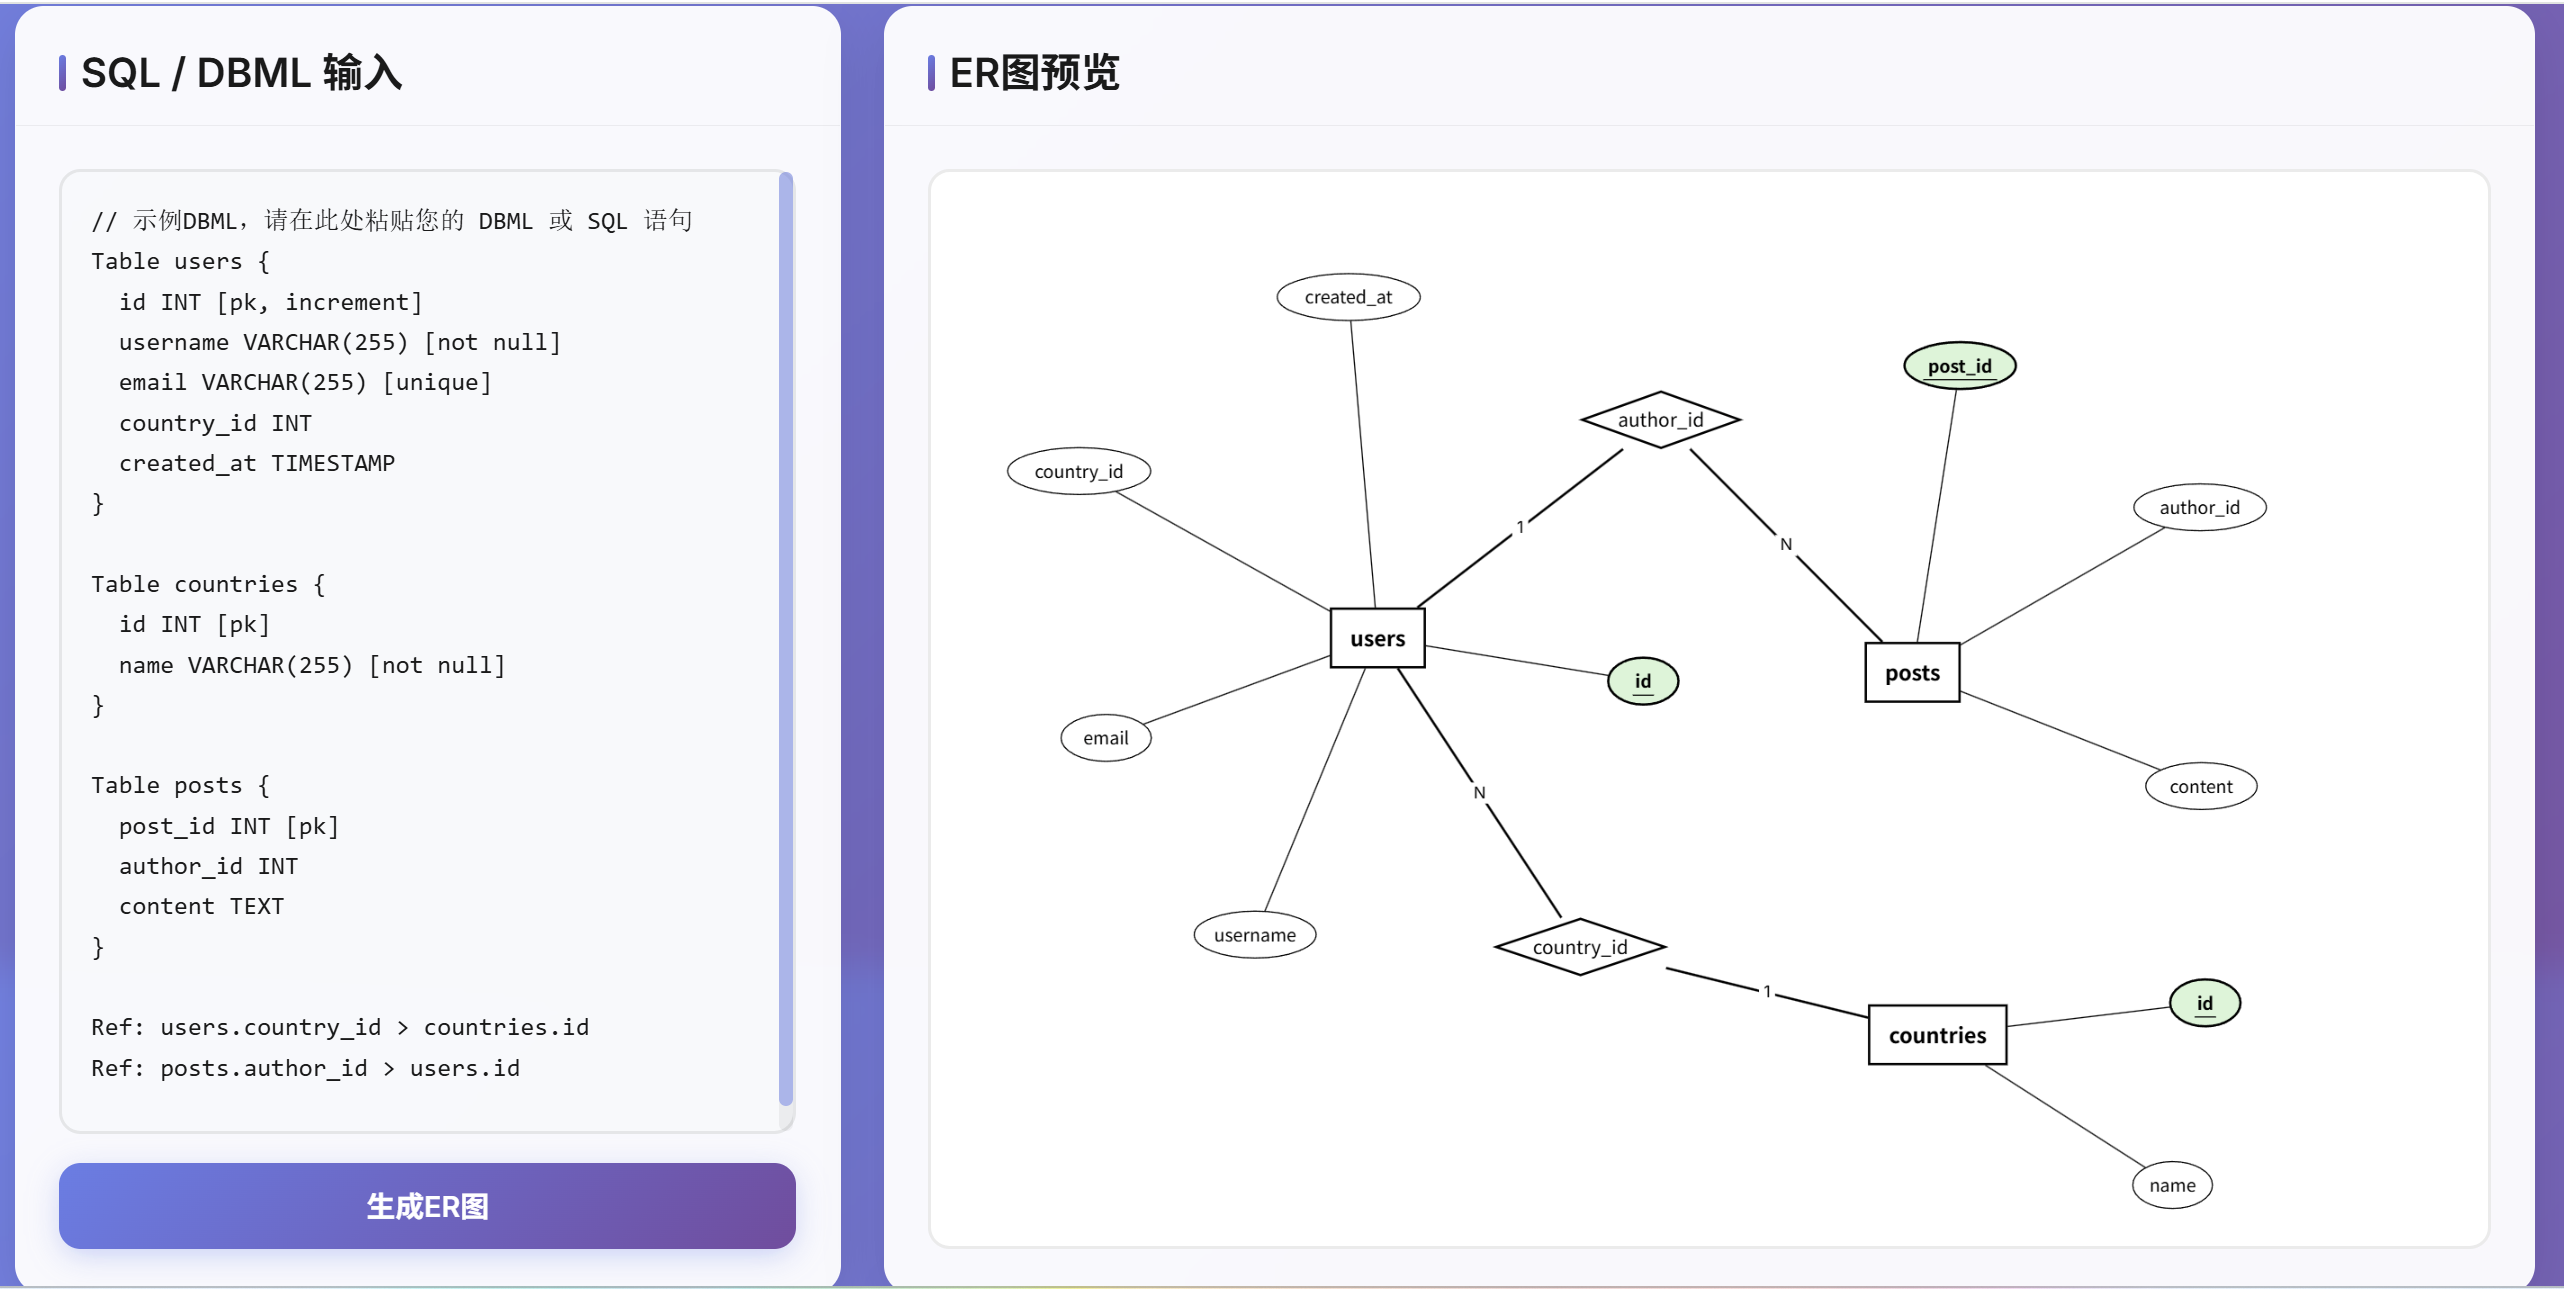
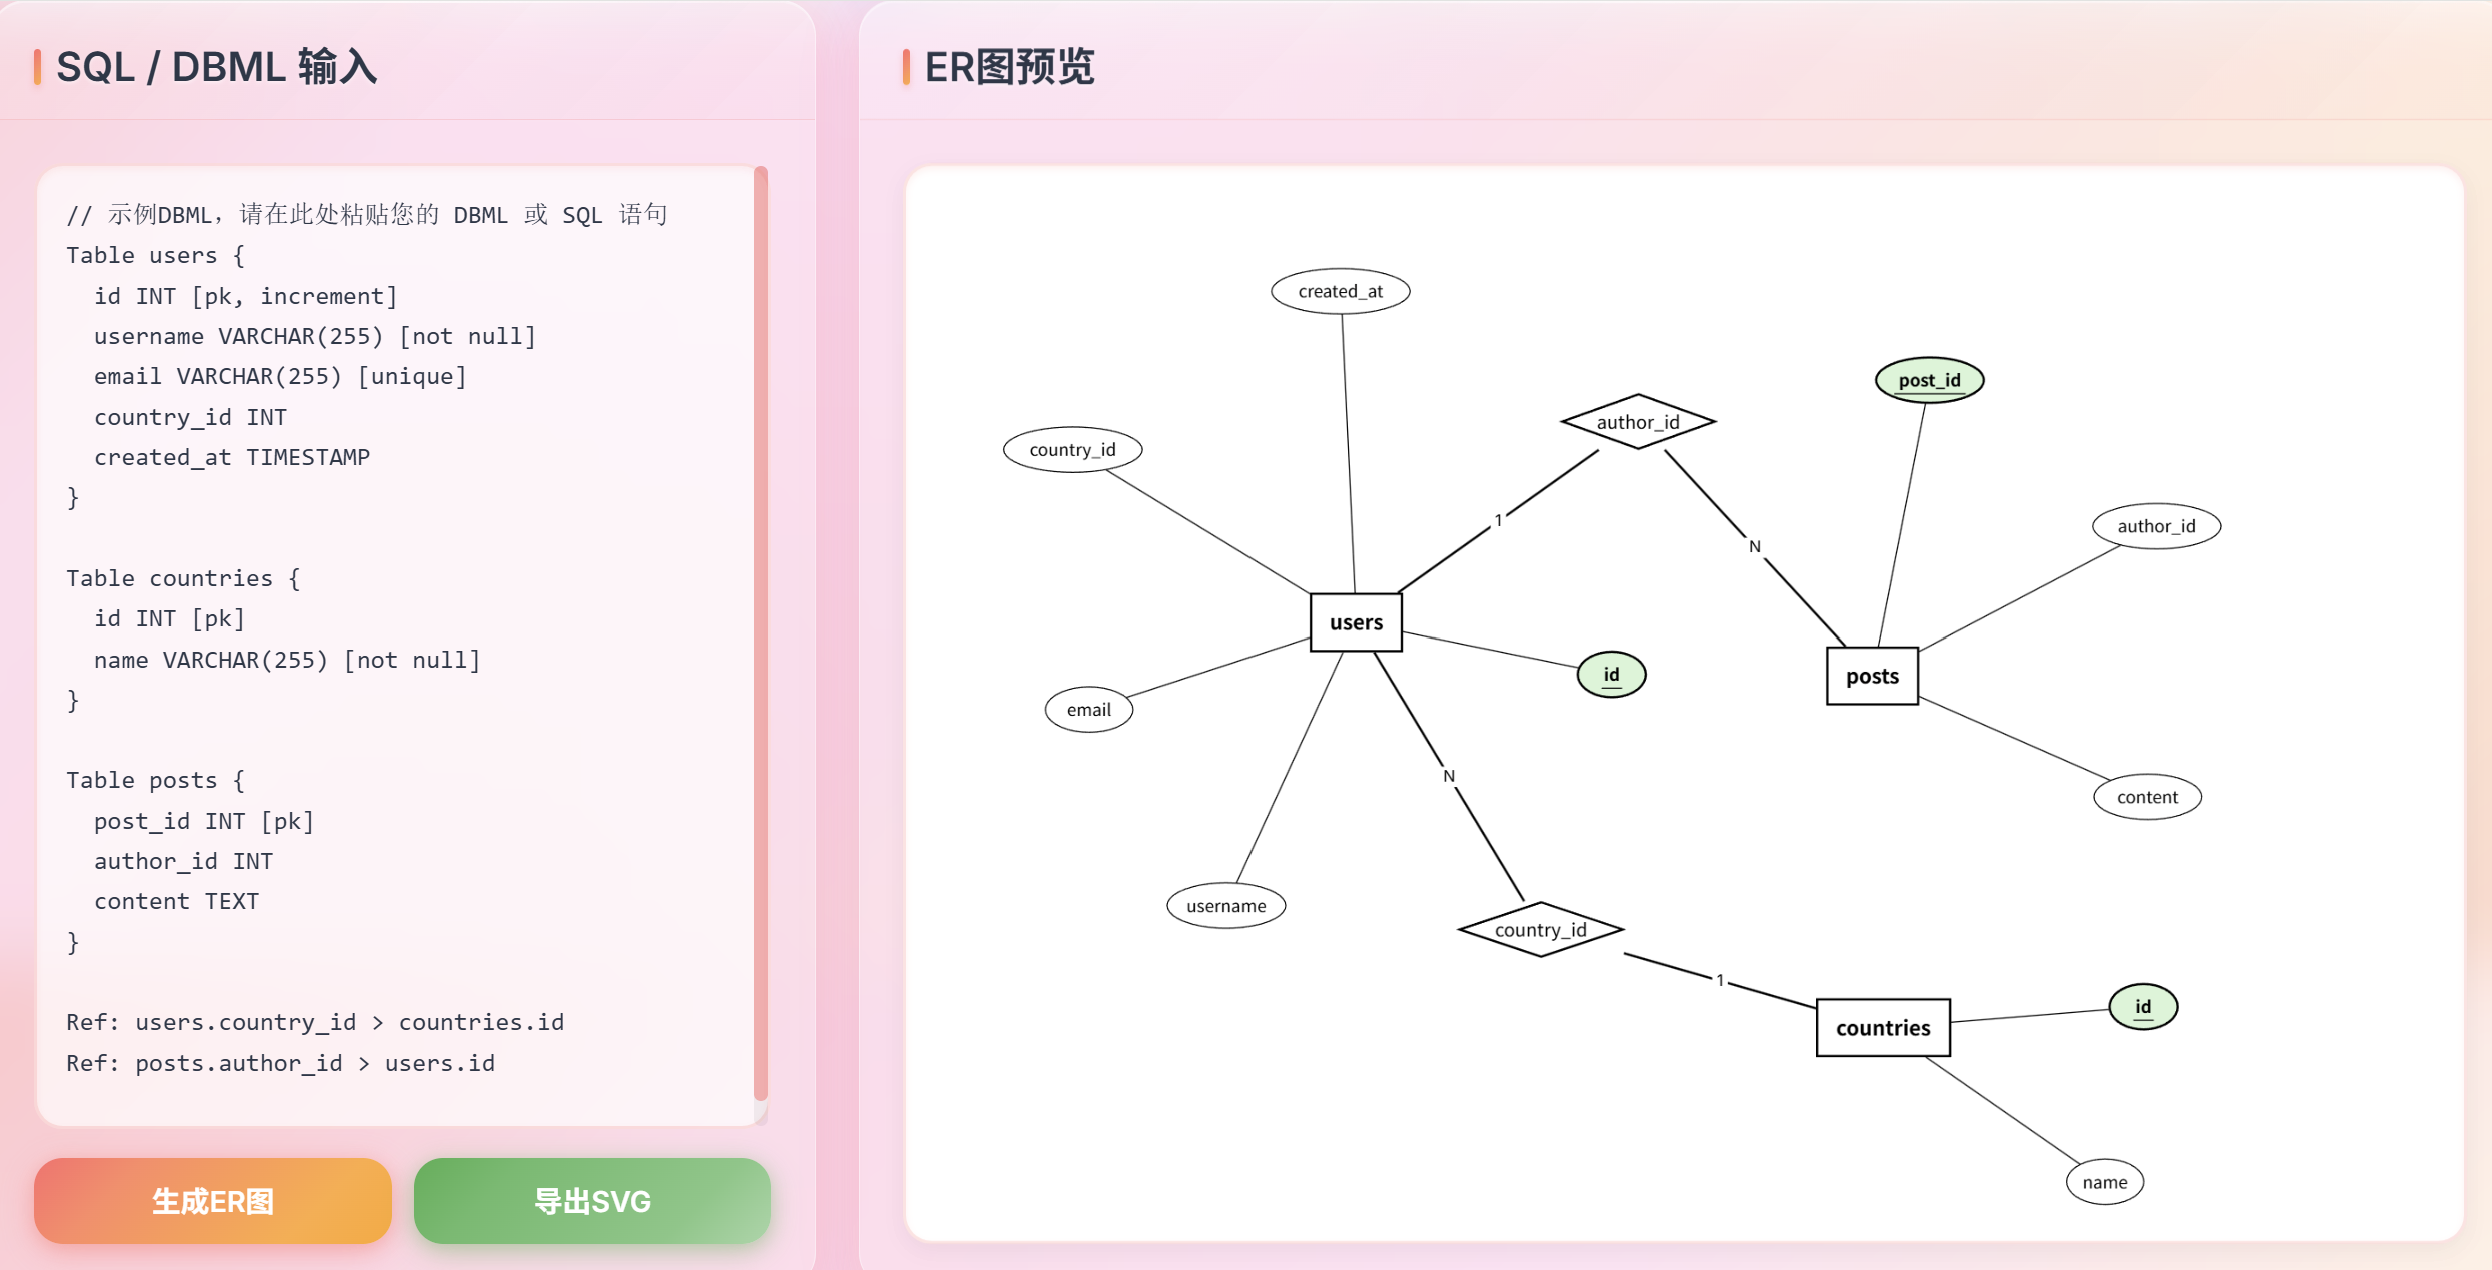
feat: add SVG export capability

diff --git a/sql2er.html b/sql2er.html
@@ -244,6 +244,19 @@
             transform: none;
         }
 
+        /* 按钮容器样式 */
+        .button-container {
+            display: flex;
+            gap: 12px;
+            margin-top: 16px;
+        }
+
+        .button-container .generate-button,
+        .button-container .export-button {
+            margin-top: 0;
+            flex: 1;
+        }
+
         .diagram-container {
             width: 100%;
             height: 600px;
@@ -432,6 +445,58 @@
             border-radius: 50%;
             animation: spin 1s linear infinite;
             margin-left: 8px;
+        }
+
+        /* 导出按钮样式 */
+        .export-button {
+            width: 100%;
+            height: 48px;
+            border: none;
+            border-radius: 16px;
+            background: linear-gradient(135deg, #4CAF50 0%, #66BB6A 25%, #81C784 75%, #A5D6A7 100%);
+            color: white;
+            font-size: 16px;
+            font-weight: 600;
+            cursor: pointer;
+            transition: all 0.4s cubic-bezier(0.25, 0.46, 0.45, 0.94);
+            margin-top: 16px;
+            box-shadow: 
+                0 4px 16px rgba(76, 175, 80, 0.4),
+                0 2px 8px rgba(102, 187, 106, 0.2);
+            position: relative;
+            overflow: hidden;
+        }
+
+        .export-button::before {
+            content: '';
+            position: absolute;
+            top: 0;
+            left: -100%;
+            width: 100%;
+            height: 100%;
+            background: linear-gradient(90deg, transparent, rgba(255, 255, 255, 0.2), transparent);
+            transition: left 0.5s ease;
+        }
+
+        .export-button:hover::before {
+            left: 100%;
+        }
+
+        .export-button:hover {
+            transform: translateY(-3px);
+            box-shadow: 
+                0 8px 24px rgba(76, 175, 80, 0.5),
+                0 4px 12px rgba(102, 187, 106, 0.3);
+        }
+
+        .export-button:active {
+            transform: translateY(0);
+        }
+
+        .export-button:disabled {
+            opacity: 0.6;
+            cursor: not-allowed;
+            transform: none;
         }
     </style>
 </head>
@@ -1050,6 +1115,7 @@ Ref: posts.author_id > users.id
 `);
                 const [error, setError] = useState(null);
                 const [loading, setLoading] = useState(false);
+                const [hasGraph, setHasGraph] = useState(false);
                 const containerRef = useRef(null);
                 const graphRef = useRef(null);
 
@@ -1296,6 +1362,7 @@ Ref: posts.author_id > users.id
                         });
 
                         graphRef.current = graph;
+                        setHasGraph(true); // 标记图形已生成
                         
                         // Set data and render
                         graph.data({ nodes, edges });
@@ -1579,6 +1646,138 @@ Ref: posts.author_id > users.id
                     }
                 };
 
+                // 导出SVG功能
+                const handleExportSVG = () => {
+                    if (!graphRef.current || !hasGraph) {
+                        setError('请先生成ER图');
+                        return;
+                    }
+
+                    try {
+                        // 获取当前图形数据，包括节点的实际位置
+                        const data = graphRef.current.save();
+                        
+                        // 创建一个临时容器
+                        const tempContainer = document.createElement('div');
+                        tempContainer.style.position = 'absolute';
+                        tempContainer.style.left = '-9999px';
+                        tempContainer.style.top = '-9999px';
+                        document.body.appendChild(tempContainer);
+                        
+                        // 创建临时SVG图形，使用相同的配置
+                        const tempGraph = new G6.Graph({
+                            container: tempContainer,
+                            width: containerRef.current.offsetWidth,
+                            height: 600,
+                            renderer: 'svg',
+                            modes: {
+                                default: []
+                            },
+                            // 不使用布局，直接使用保存的位置
+                            layout: null,
+                            defaultNode: {
+                                style: {
+                                    lineWidth: 2,
+                                    stroke: '#000',
+                                    fill: '#fff'
+                                },
+                                labelCfg: {
+                                    style: {
+                                        fill: '#000',
+                                        fontSize: 16
+                                    }
+                                }
+                            },
+                            defaultEdge: {
+                                style: {
+                                    lineWidth: 1,
+                                    stroke: '#000'
+                                },
+                                labelCfg: {
+                                    style: {
+                                        fill: '#000',
+                                        fontSize: 14,
+                                        background: {
+                                            fill: '#fff',
+                                            padding: [2, 4, 2, 4]
+                                        }
+                                    }
+                                }
+                            }
+                        });
+
+                        // 读取当前图形数据（包含节点位置）
+                        tempGraph.read(data);
+                        
+                        // 等待渲染完成
+                        setTimeout(() => {
+                            try {
+                                const tempCanvas = tempGraph.get('canvas');
+                                const svgElement = tempCanvas.get('el');
+                                
+                                // 克隆SVG元素以避免修改原始元素
+                                const clonedSvg = svgElement.cloneNode(true);
+                                
+                                // 获取所有图形的边界框
+                                const group = tempGraph.getGroup();
+                                const bbox = group.getCanvasBBox();
+                                
+                                // 添加padding
+                                const padding = 40;
+                                const viewBoxX = bbox.minX - padding;
+                                const viewBoxY = bbox.minY - padding;
+                                const viewBoxWidth = bbox.width + padding * 2;
+                                const viewBoxHeight = bbox.height + padding * 2;
+                                
+                                // 设置SVG属性以包含完整内容
+                                clonedSvg.setAttribute('xmlns', 'http://www.w3.org/2000/svg');
+                                clonedSvg.setAttribute('width', viewBoxWidth);
+                                clonedSvg.setAttribute('height', viewBoxHeight);
+                                clonedSvg.setAttribute('viewBox', `${viewBoxX} ${viewBoxY} ${viewBoxWidth} ${viewBoxHeight}`);
+                                
+                                // 设置白色背景，使用viewBox的尺寸
+                                const rect = document.createElementNS('http://www.w3.org/2000/svg', 'rect');
+                                rect.setAttribute('x', viewBoxX);
+                                rect.setAttribute('y', viewBoxY);
+                                rect.setAttribute('width', viewBoxWidth);
+                                rect.setAttribute('height', viewBoxHeight);
+                                rect.setAttribute('fill', '#ffffff');
+                                clonedSvg.insertBefore(rect, clonedSvg.firstChild);
+                                
+                                const svgString = new XMLSerializer().serializeToString(clonedSvg);
+                                downloadSVG(svgString, 'er-diagram.svg');
+                                
+                                // 清理临时图形和容器
+                                tempGraph.destroy();
+                                document.body.removeChild(tempContainer);
+                            } catch (innerError) {
+                                console.error('SVG生成失败:', innerError);
+                                setError('SVG生成失败: ' + innerError.message);
+                                tempGraph.destroy();
+                                if (tempContainer.parentNode) {
+                                    document.body.removeChild(tempContainer);
+                                }
+                            }
+                        }, 1000); // 增加等待时间确保渲染完成
+                    } catch (error) {
+                        console.error('导出SVG失败:', error);
+                        setError('导出SVG失败: ' + error.message);
+                    }
+                };
+
+                // 下载SVG文件
+                const downloadSVG = (svgString, filename) => {
+                    const blob = new Blob([svgString], { type: 'image/svg+xml' });
+                    const url = URL.createObjectURL(blob);
+                    const link = document.createElement('a');
+                    link.href = url;
+                    link.download = filename;
+                    document.body.appendChild(link);
+                    link.click();
+                    document.body.removeChild(link);
+                    URL.revokeObjectURL(url);
+                };
+
                 useEffect(() => {
                     window.addEventListener('resize', handleResize);
                     return () => window.removeEventListener('resize', handleResize);
@@ -1599,13 +1798,22 @@ Ref: posts.author_id > users.id
                                             onChange={(e) => setInputText(e.target.value)}
                                             placeholder="在此处粘贴您的 CREATE TABLE 或 DBML 语句"
                                         />
-                                        <button
-                                            className={`generate-button ${loading ? 'loading' : ''}`}
-                                            onClick={handleGenerate}
-                                            disabled={loading}
-                                        >
-                                            {loading ? '生成中...' : '生成ER图'}
-                                        </button>
+                                        <div className="button-container">
+                                            <button
+                                                className={`generate-button ${loading ? 'loading' : ''}`}
+                                                onClick={handleGenerate}
+                                                disabled={loading}
+                                            >
+                                                {loading ? '生成中...' : '生成ER图'}
+                                            </button>
+                                            <button
+                                                className="export-button"
+                                                onClick={handleExportSVG}
+                                                disabled={!hasGraph}
+                                            >
+                                                导出SVG
+                                            </button>
+                                        </div>
                                     </div>
                                 </div>
                             </div>
@@ -1671,6 +1879,9 @@ Ref: posts.author_id > users.id
                                 </p>
                                 <p style={{ marginTop: '4px', fontSize: '0.9rem', color: '#6b7280' }}>
                                     <strong>编辑说明：</strong>双击任意节点（实体、属性、关系）可直接在原位置编辑其文本内容，按回车键确认，按ESC键取消，点击其他地方也会自动保存
+                                </p>
+                                <p style={{ marginTop: '4px', fontSize: '0.9rem', color: '#6b7280' }}>
+                                    <strong>导出说明：</strong>点击"导出SVG"按钮可将当前ER图导出为SVG矢量图格式，方便在其他软件中使用或进一步编辑
                                 </p>
                             </div>
                         </div>
